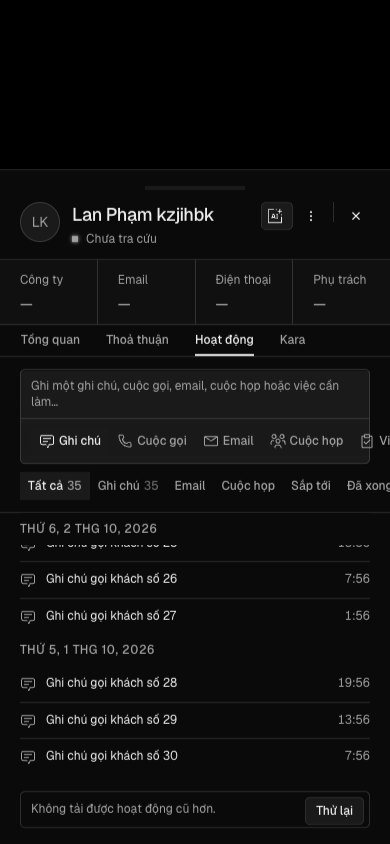
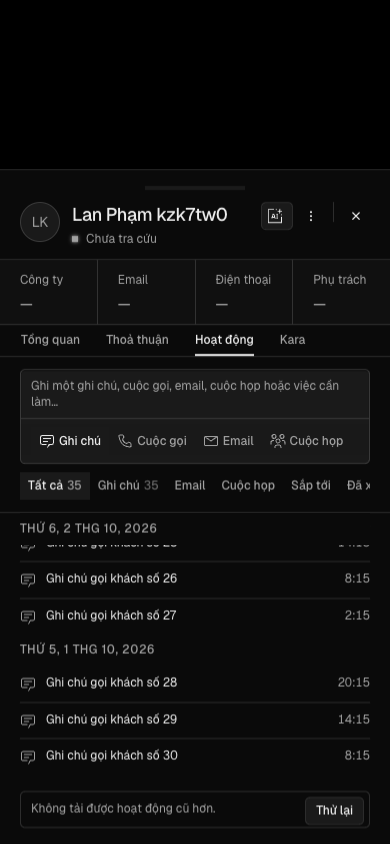
fix(app): dong-thoi-gian-giu-khi-loi — vòng S4-r2: hai hàng nút ở 390 cuộn ngang được; răng màn đo cắt cho mọi phần tử, E7 trung tính

diff --git a/apps/app/components/crm/timeline/timeline.tsx b/apps/app/components/crm/timeline/timeline.tsx
@@ -201,26 +201,28 @@ export function Timeline({ anchor }: { anchor: TimelineAnchor }) {
 			<div className="flex shrink-0 flex-col gap-2 border-b px-5 py-3">
 				<ActivityComposer anchor={anchor} />
 
-				<ToggleGroup
-					type="single"
-					value={tab}
-					onValueChange={(next) => {
-						if (next) void setTab(next as TimelineTab);
-					}}
-					size="sm"
-					spacing={0}
-				>
-					{TIMELINE_TABS.map((option) => (
-						<ToggleGroupItem key={option} value={option}>
-							{tabLabels(m)[option]}
-							{counts.data?.[option] ? (
-								<span className="tabular-nums opacity-60">
-									{counts.data[option]}
-								</span>
-							) : null}
-						</ToggleGroupItem>
-					))}
-				</ToggleGroup>
+				<div className="min-w-0 overflow-x-auto">
+					<ToggleGroup
+						type="single"
+						value={tab}
+						onValueChange={(next) => {
+							if (next) void setTab(next as TimelineTab);
+						}}
+						size="sm"
+						spacing={0}
+					>
+						{TIMELINE_TABS.map((option) => (
+							<ToggleGroupItem key={option} value={option}>
+								{tabLabels(m)[option]}
+								{counts.data?.[option] ? (
+									<span className="tabular-nums opacity-60">
+										{counts.data[option]}
+									</span>
+								) : null}
+							</ToggleGroupItem>
+						))}
+					</ToggleGroup>
+				</div>
 			</div>
 
 			{history.isPending ? (

diff --git a/apps/app/components/crm/timeline/activity-composer.tsx b/apps/app/components/crm/timeline/activity-composer.tsx
@@ -111,24 +111,26 @@ export function ActivityComposer({ anchor }: { anchor: TimelineAnchor }) {
 				/>
 
 				<InputGroupAddon align="block-end" className="gap-2 border-t">
-					<ToggleGroup
-						type="single"
-						value={type}
-						onValueChange={(next) => next && setType(next as ComposableType)}
-						size="sm"
-						spacing={0}
-					>
-						{TYPES.map((option) => (
-							<ToggleGroupItem
-								key={option}
-								value={option}
-								aria-label={activityLabel(option, locale)}
-							>
-								<ActivityIcon type={option} />
-								{activityLabel(option, locale)}
-							</ToggleGroupItem>
-						))}
-					</ToggleGroup>
+					<div className="min-w-0 overflow-x-auto">
+						<ToggleGroup
+							type="single"
+							value={type}
+							onValueChange={(next) => next && setType(next as ComposableType)}
+							size="sm"
+							spacing={0}
+						>
+							{TYPES.map((option) => (
+								<ToggleGroupItem
+									key={option}
+									value={option}
+									aria-label={activityLabel(option, locale)}
+								>
+									<ActivityIcon type={option} />
+									{activityLabel(option, locale)}
+								</ToggleGroupItem>
+							))}
+						</ToggleGroup>
+					</div>
 
 					{isTask ? (
 						<Popover>
